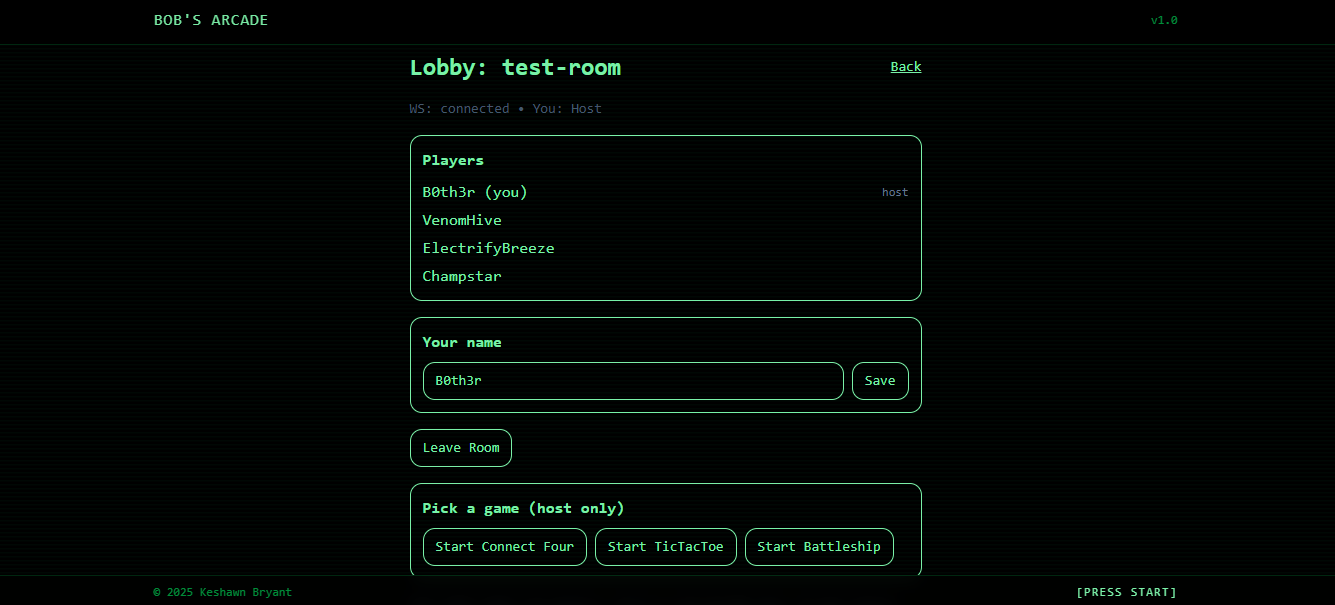
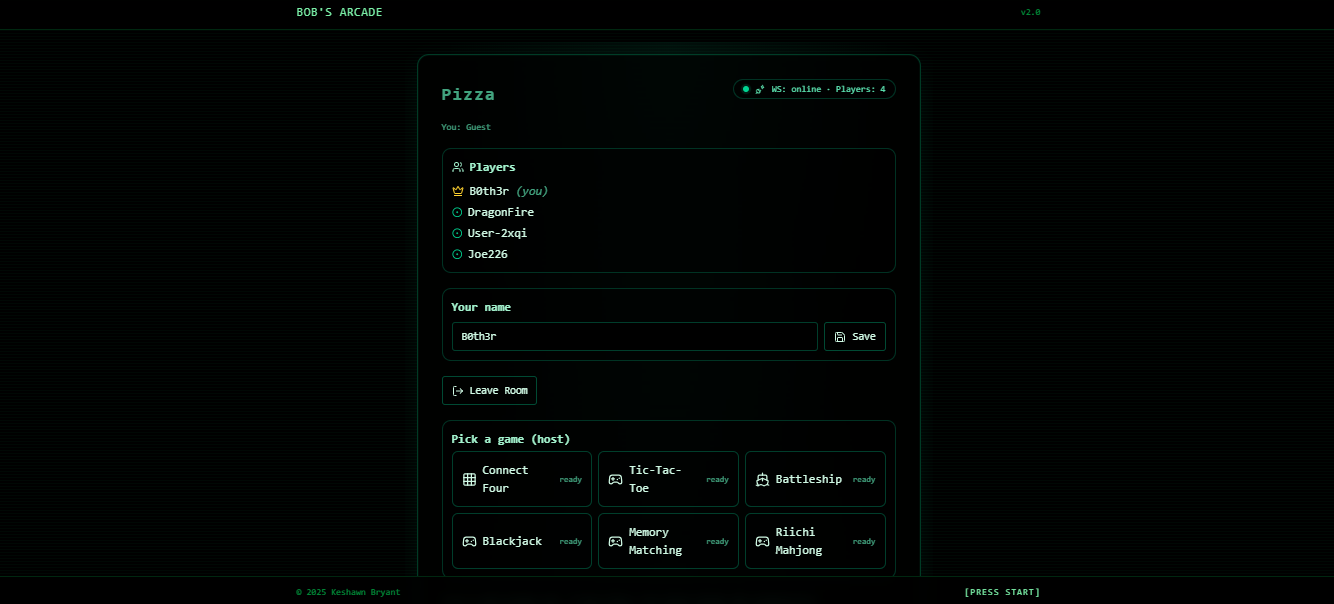
docs: update README

diff --git a/README.md b/README.md
@@ -15,7 +15,7 @@ Play classics like **Tic-Tac-Toe, Connect Four, and Battleship** with live rooms
 
 - **Real-time gameplay** via WebSockets (Socket.IO)  
 - **Game lobby system** with host/room management  
-- **Multiple games built in** (Tic-Tac-Toe, Connect Four, Battleship)  
+- **Multiple games built in** (MemoryMatching, Blackjack, Mahjong, Tic-Tac-Toe, Connect Four, Battleship)  
 - **Spectator mode** for watching live games  
 - **Modular game API** — easily add new games  
 
@@ -23,11 +23,17 @@ Play classics like **Tic-Tac-Toe, Connect Four, and Battleship** with live rooms
 
 ## Demo
 
-![Lobby Screenshot](docs/lobby.png)  
-*Retro lobby with room creation/join flow*  
+![Room Entry Screenshot](docs/lobbyJoin.png)  
+*Room creation/join flow*
 
-![Gameplay Screenshot](docs/gameplay.png)  
+![Lobby Screenshot](docs/lobby.png)  
+*Retro lobby*  
+
+![Gameplay Screenshot](docs/gameplayConnect4.png)  
 *Real-time Connect Four match in progress*  
+
+![Gameplay Screenshot](docs/gameplayMatching.png)  
+*Memory matching game in progress*  
 
 ---
 
@@ -104,14 +110,6 @@ Server → Client
 
 - **In-memory state only** (rooms reset on server restart)  
 - **No user accounts** — names are temporary and not enforced unique   
-
----
-
-## Releases
-
-- **v1.0.0** – Initial release with Tic-Tac-Toe, Connect Four, Battleship, lobby system.  
-
-See [Releases](https://github.com/B0th3r/Multiplayer-Game-Server/releases) for details.  
 
 ---
 
